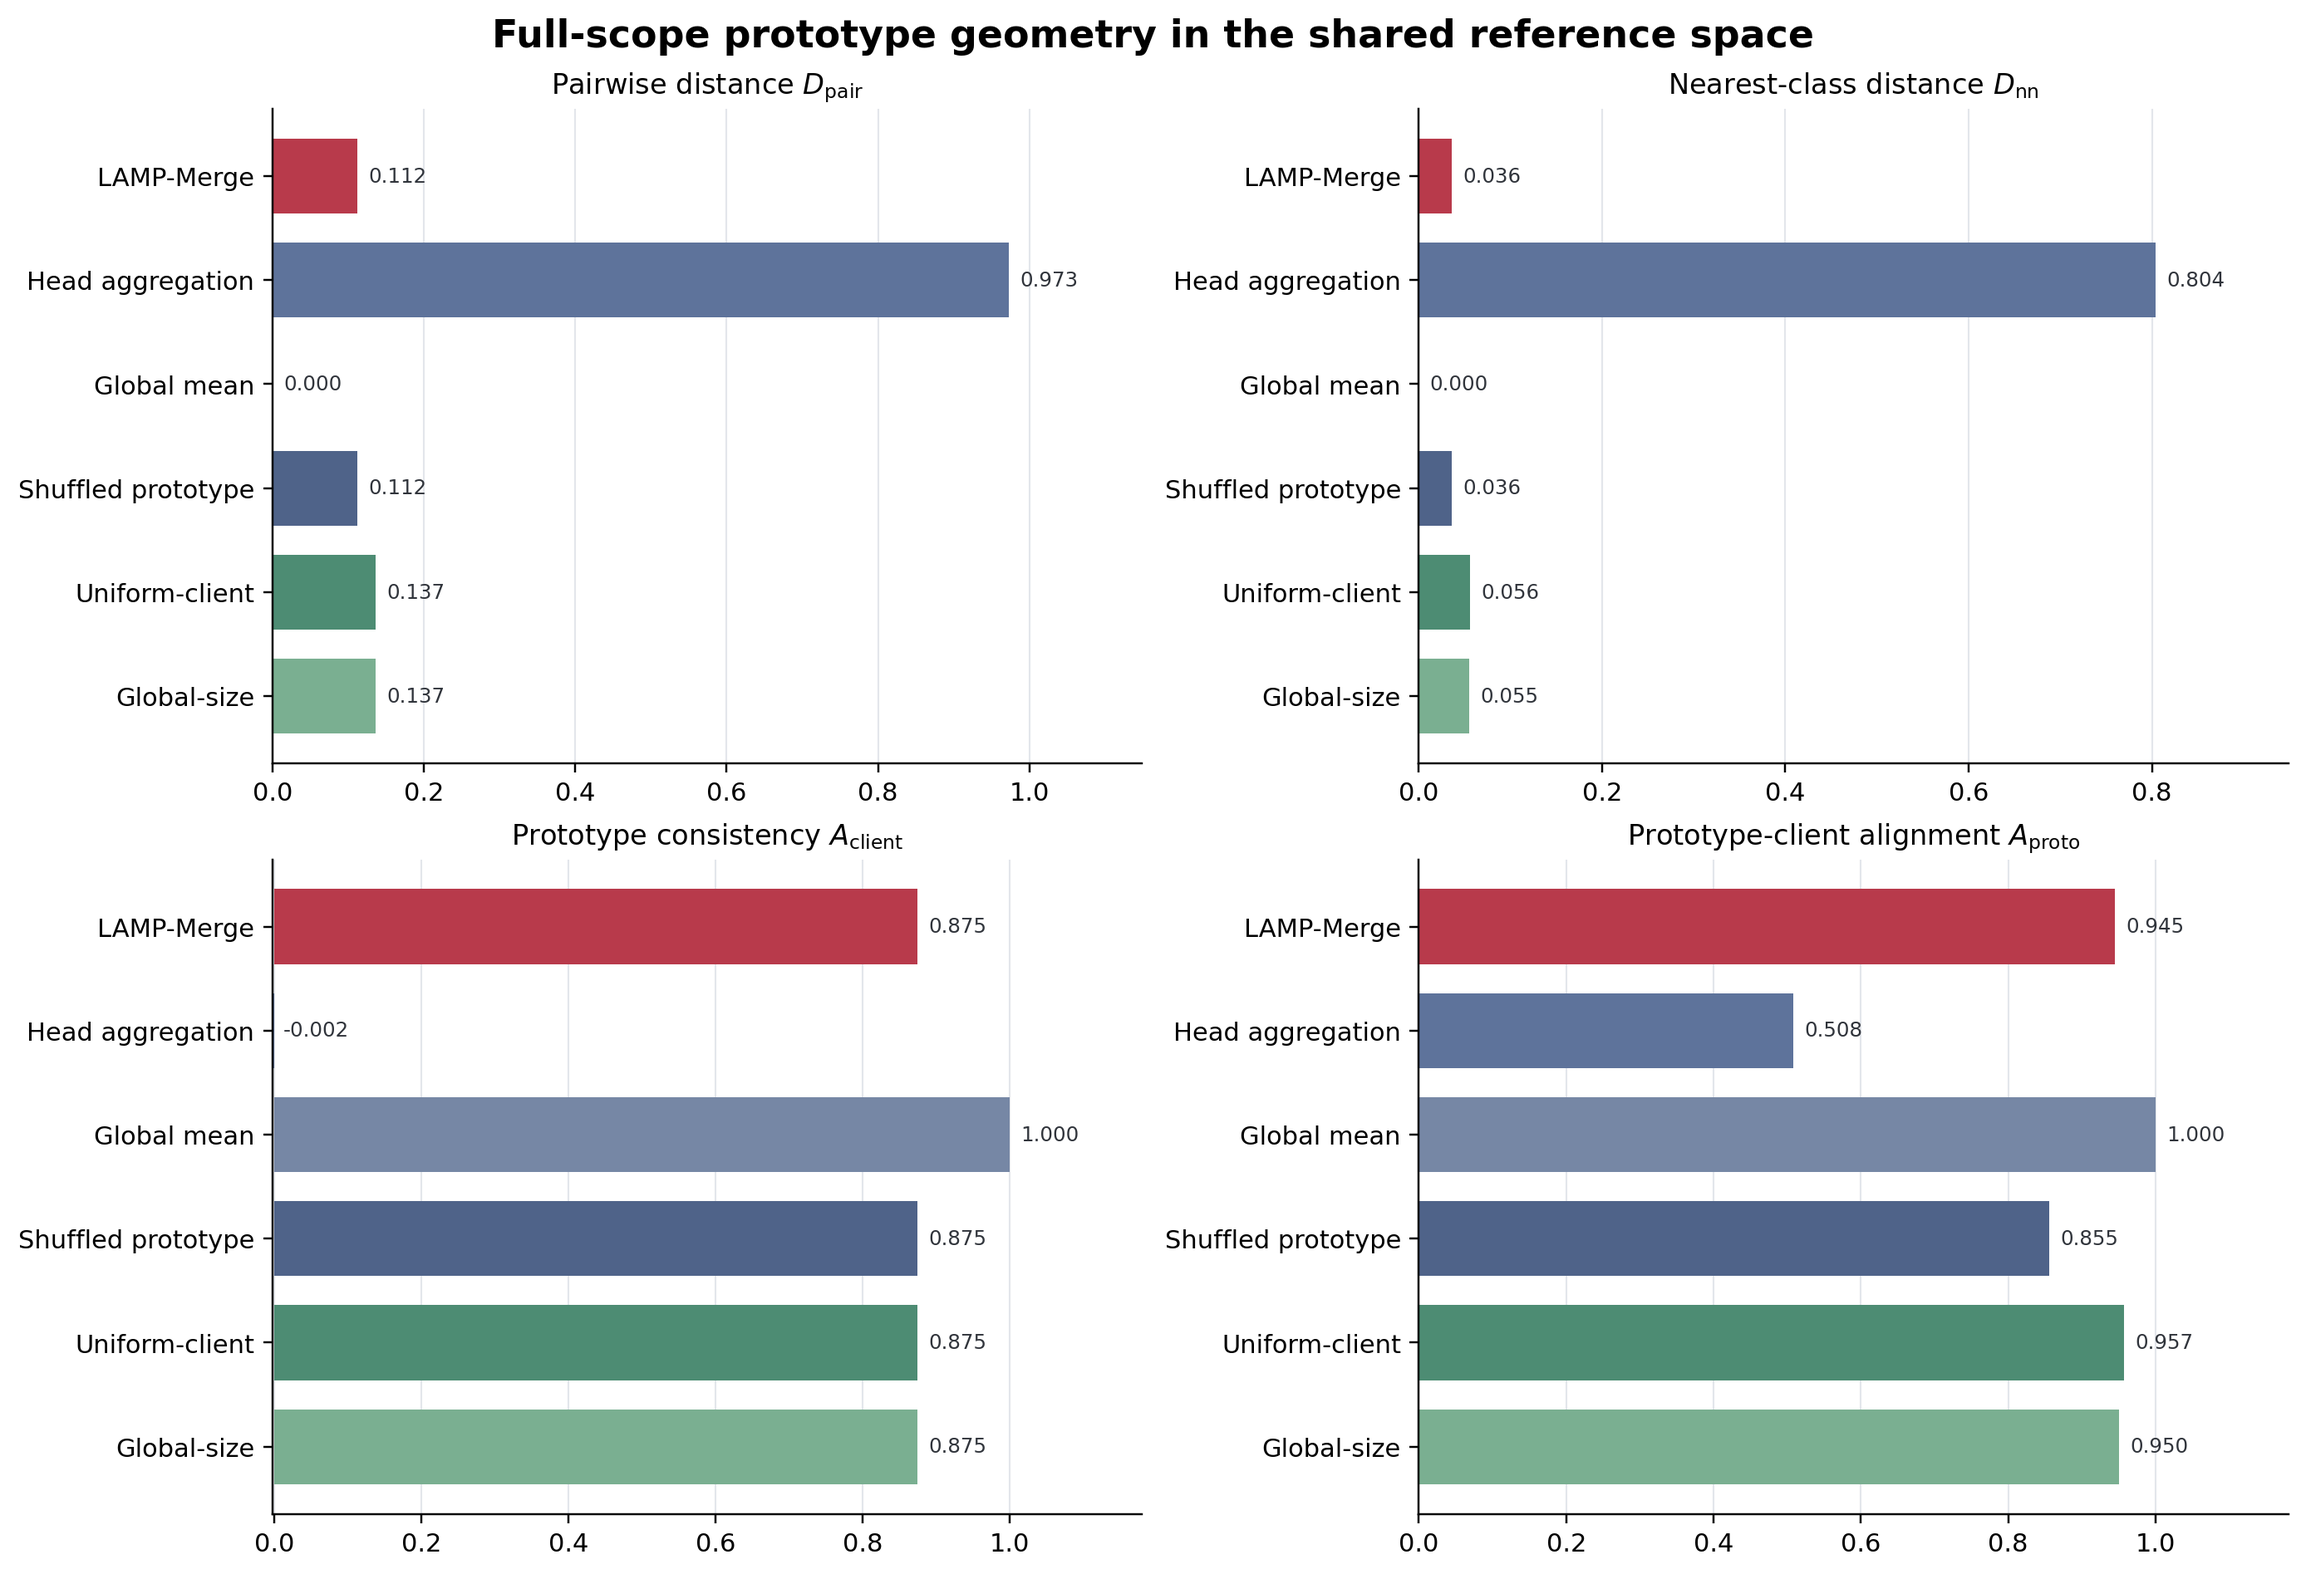
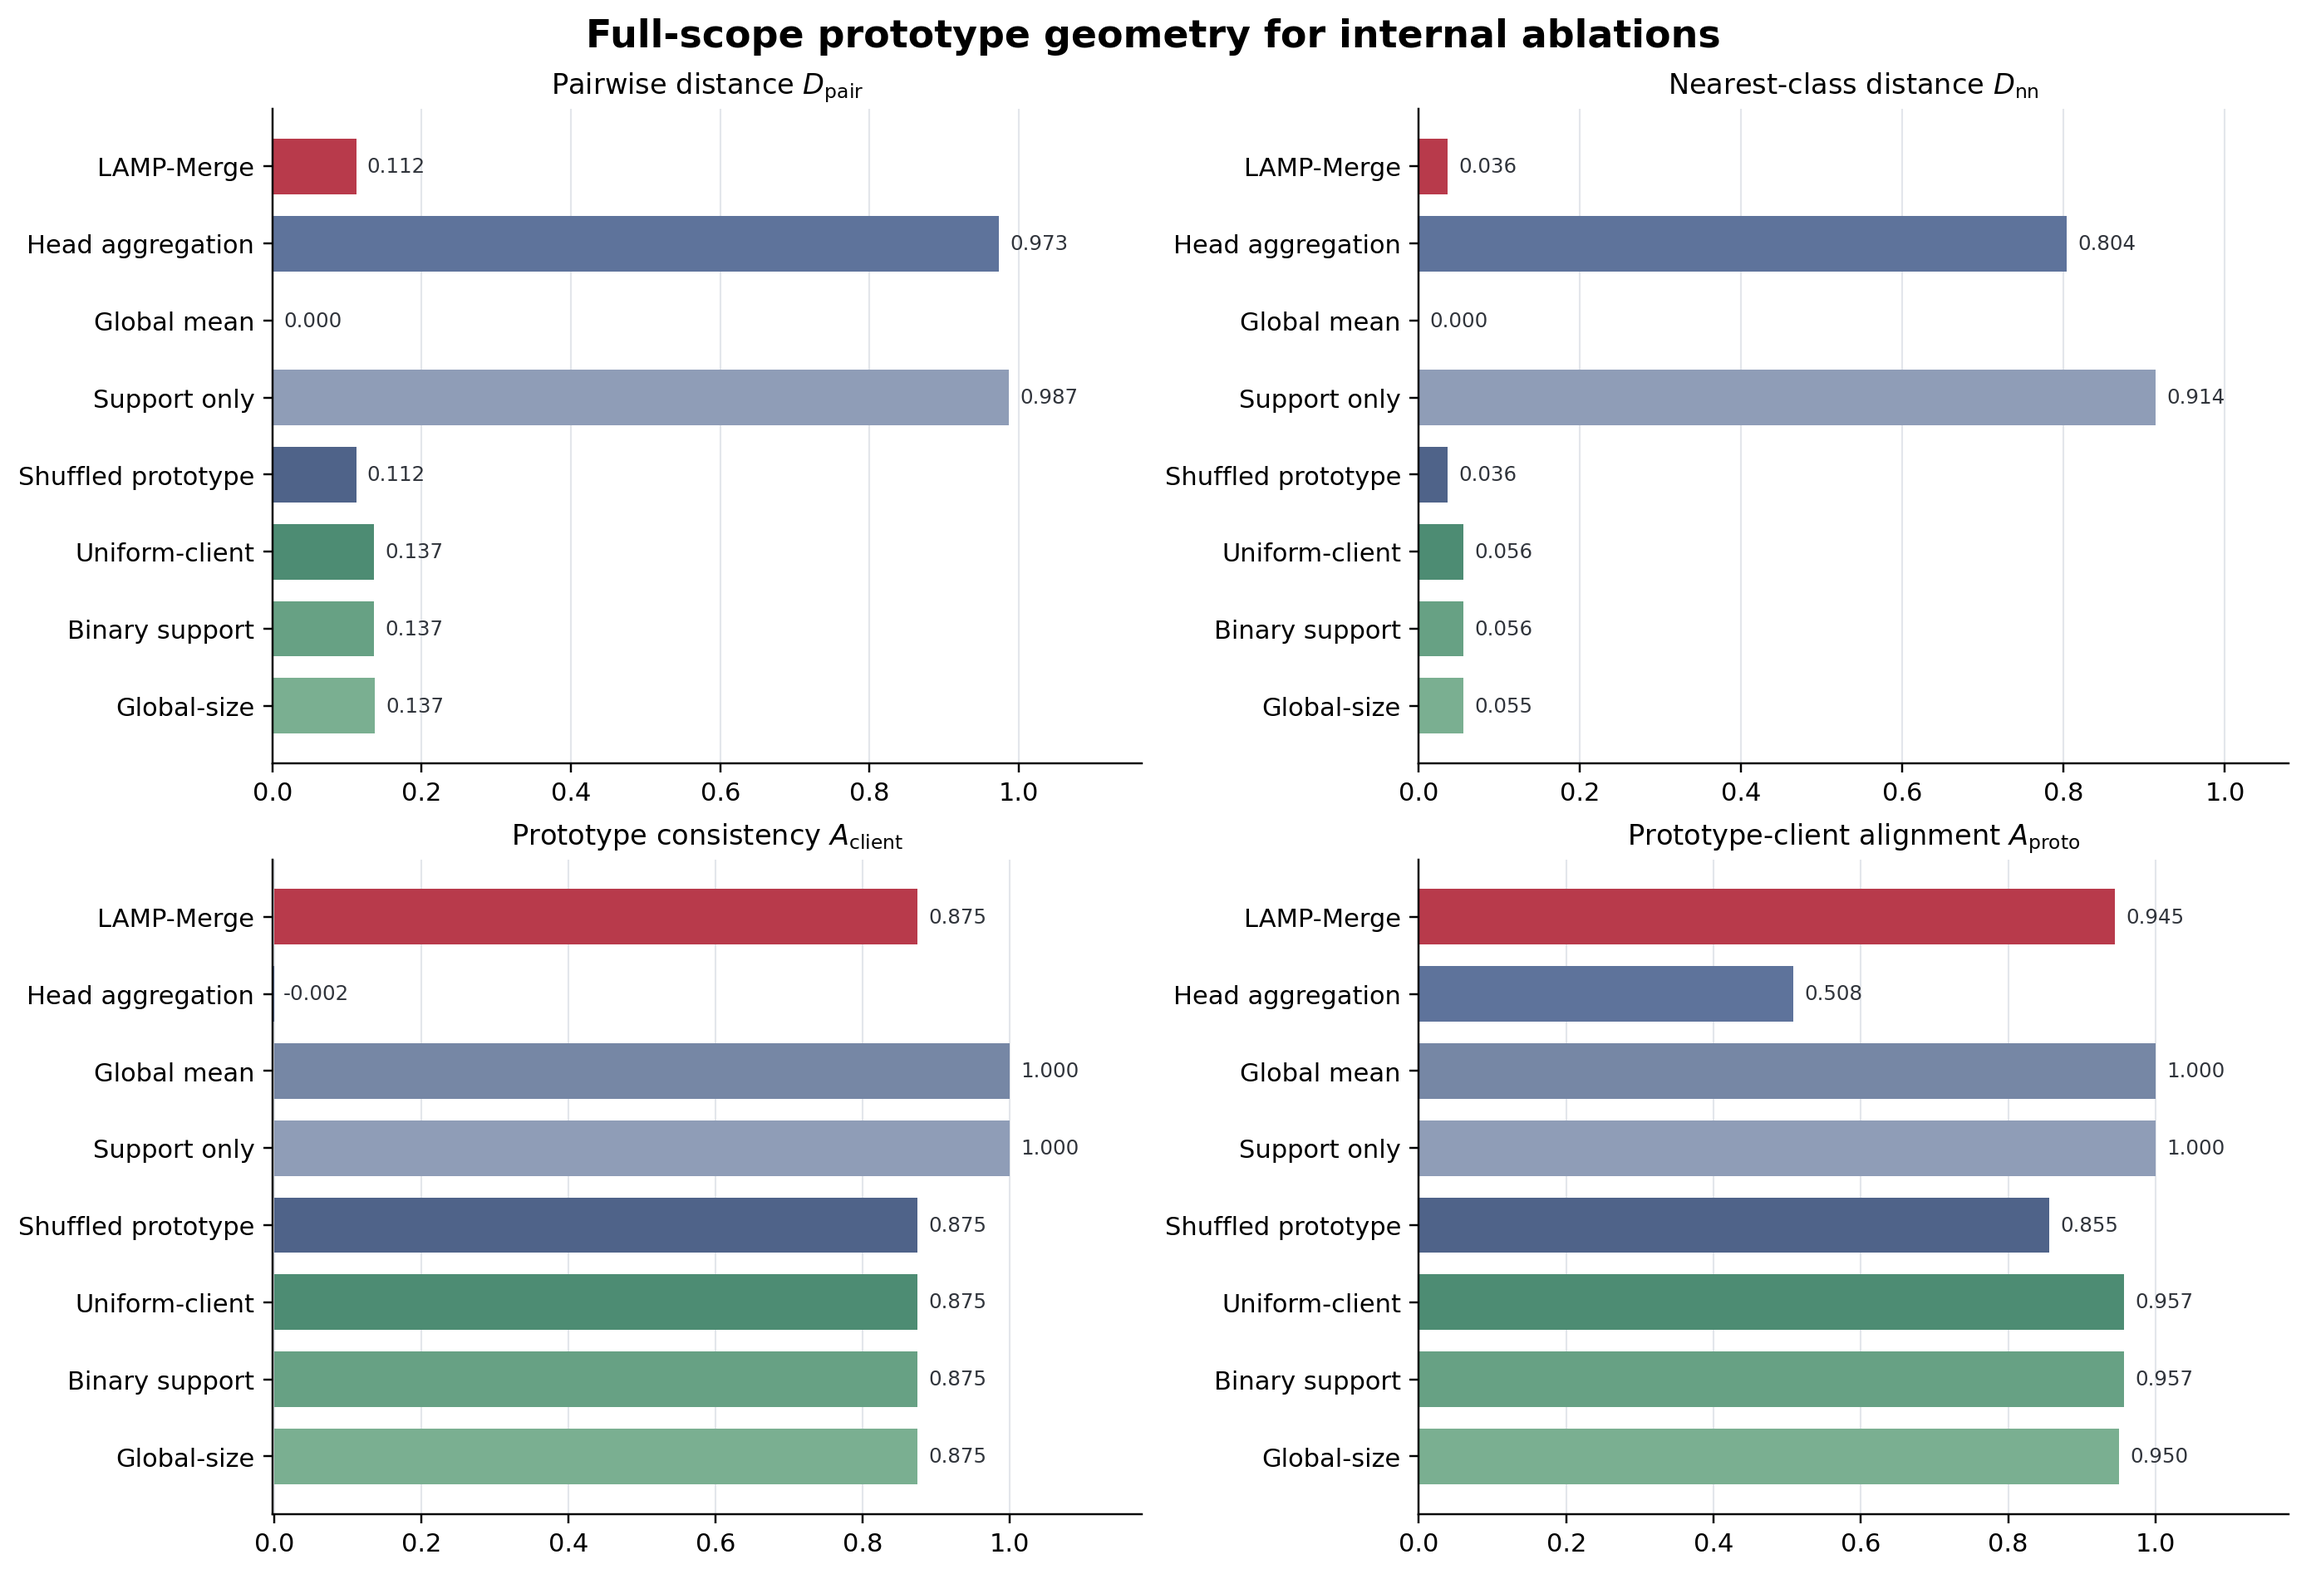
Restore full geometry ablation figure

diff --git a/exp_analyze/plot_lamp_merge_internal_analysis.py b/exp_analyze/plot_lamp_merge_internal_analysis.py
@@ -414,8 +414,10 @@ def plot_prototype_geometry(rows: list[dict[str, str]], output_dir: Path) -> Non
         "LAMP-Merge",
         "Classifier-head aggregation",
         "Global-feature mean",
+        "Support-only synthetic head",
         "Shuffled-label prototype",
         "Uniform client weight",
+        "Binary support only",
         "Global client-size weight",
     ]
     lookup = {row["label"]: row for row in rows}
@@ -449,7 +451,7 @@ def plot_prototype_geometry(rows: list[dict[str, str]], output_dir: Path) -> Non
                 color="#30343B",
             )
     fig.suptitle(
-        "Full-scope prototype geometry in the shared reference space",
+        "Full-scope prototype geometry for internal ablations",
         fontsize=15,
         fontweight="bold",
     )
